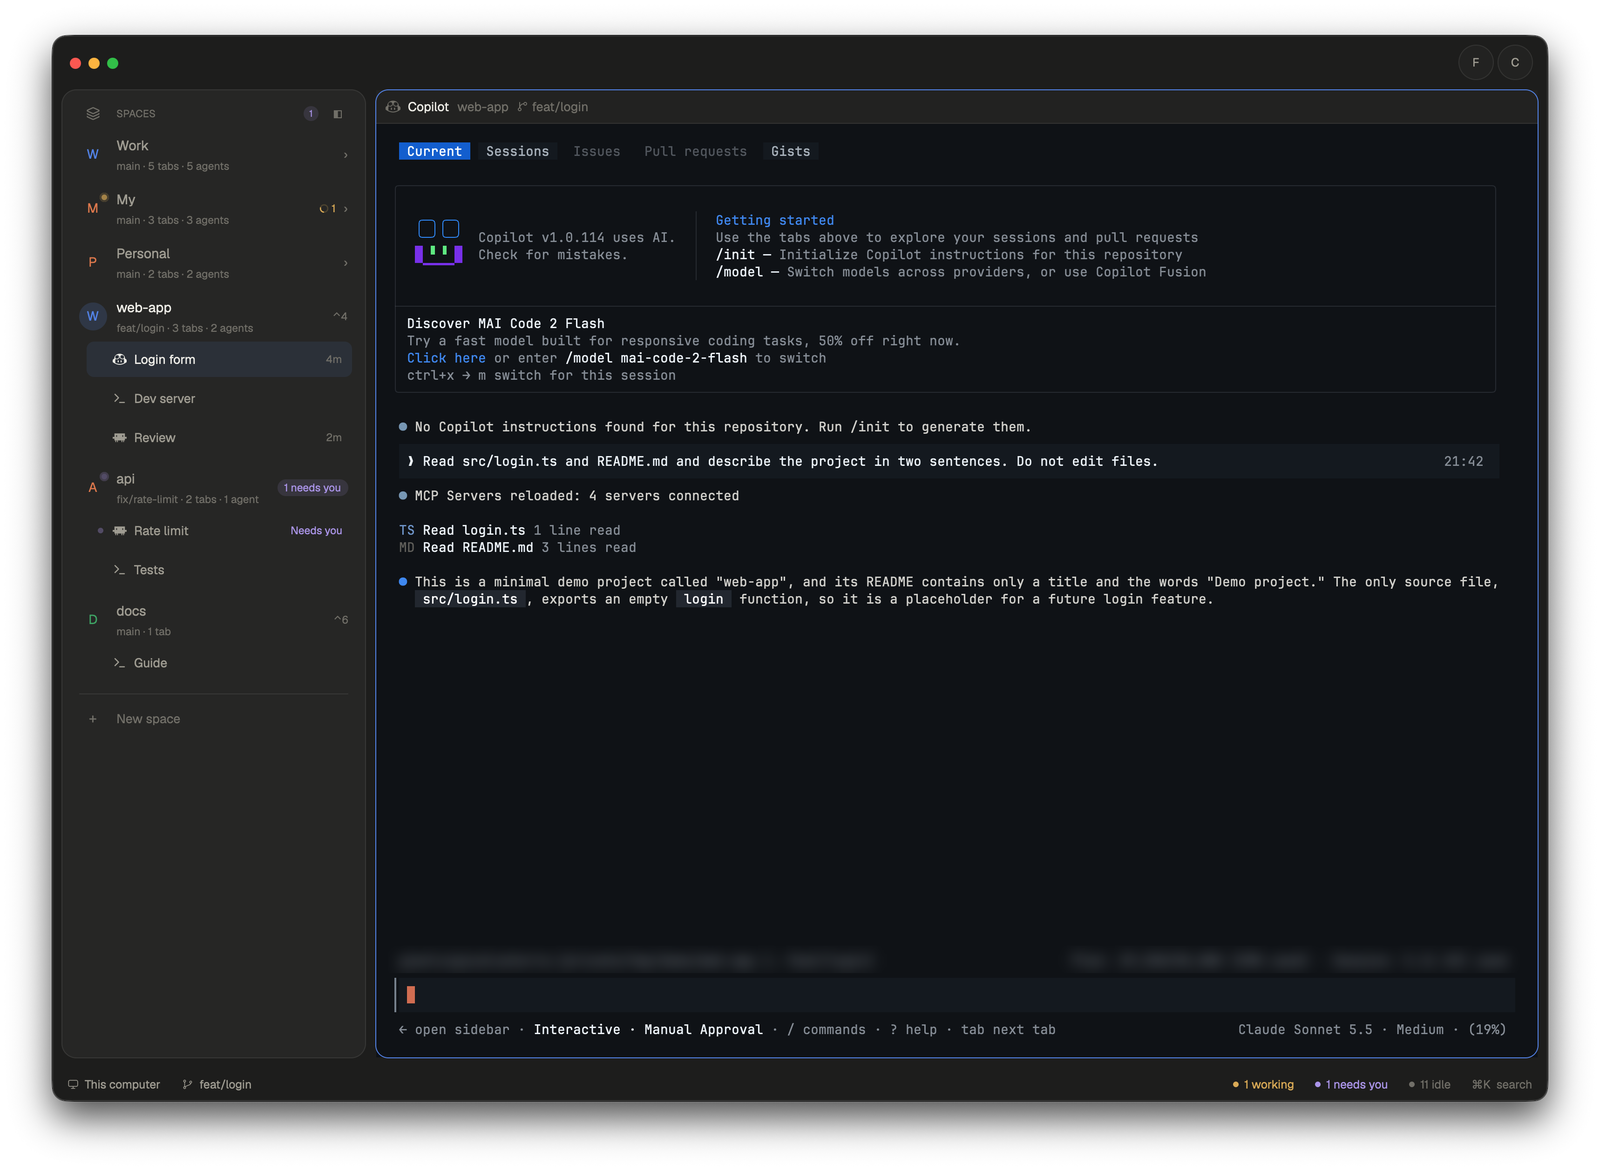
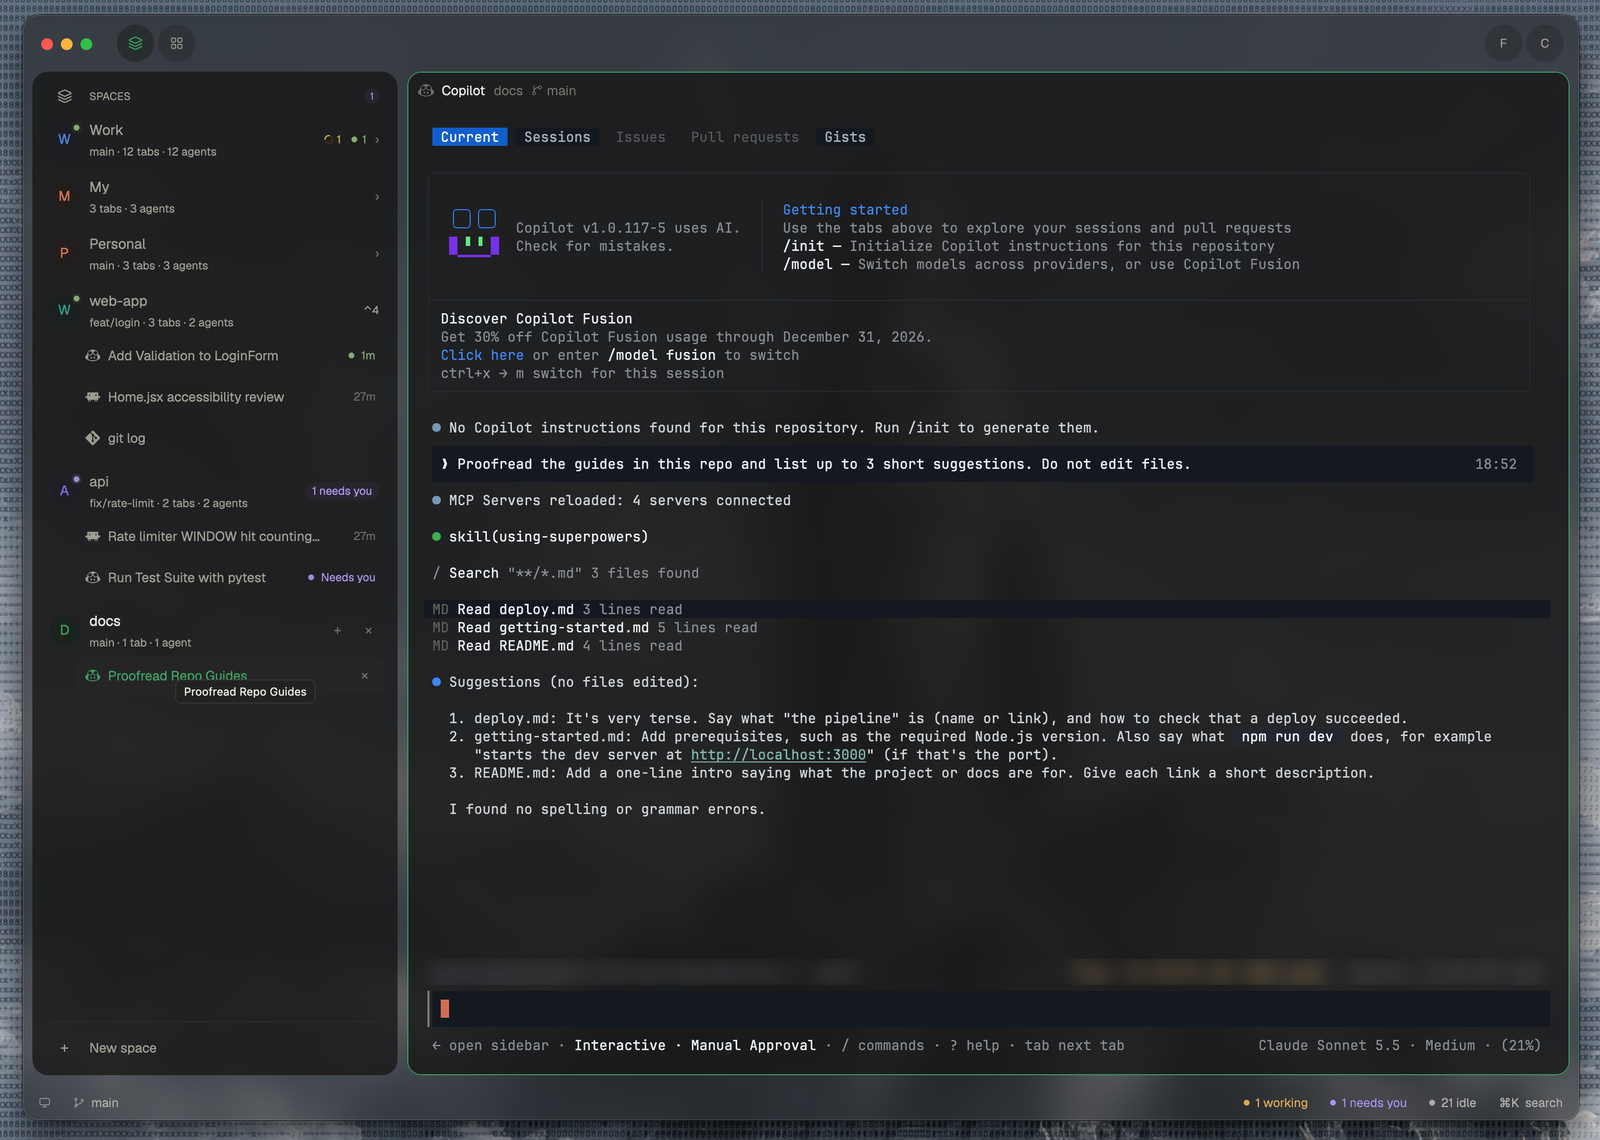
Release 0.1.0

Changed region(s): [[0.0, 0.0, 1.0, 1.0], [0.4375, 0.1228, 0.5, 0.1535]]

diff --git a/CHANGELOG.md b/CHANGELOG.md
@@ -2,7 +2,7 @@
 
 All notable changes to C-Studio. Versions follow [Semantic Versioning](https://semver.org).
 
-## [0.1.0] – unreleased
+## [0.1.0] – 2026-11-27
 
 First public release.
 
